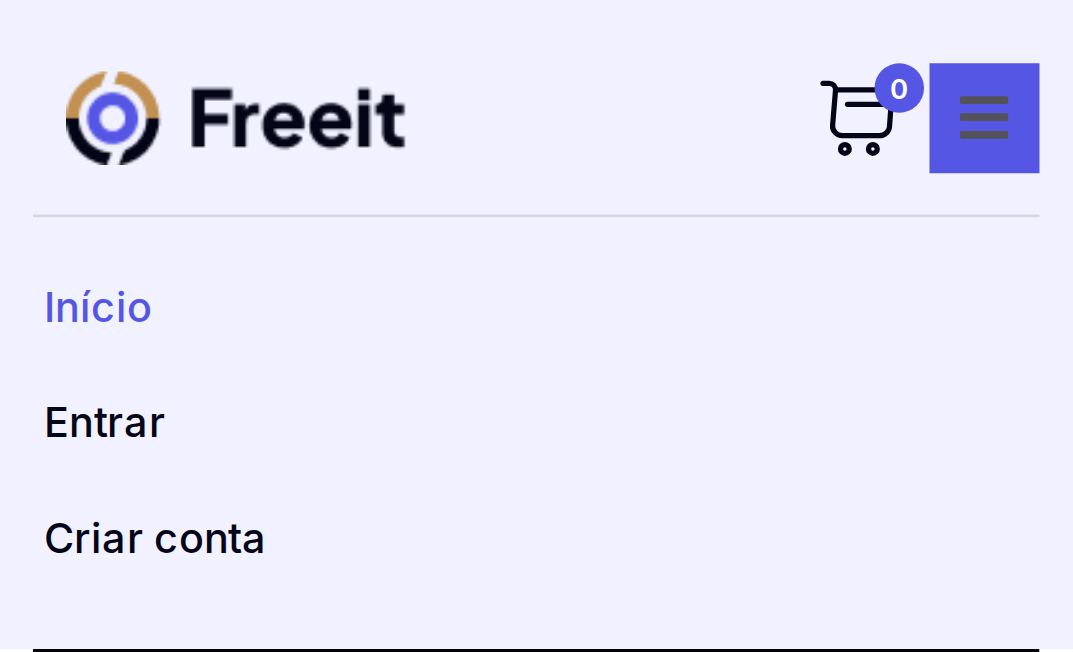
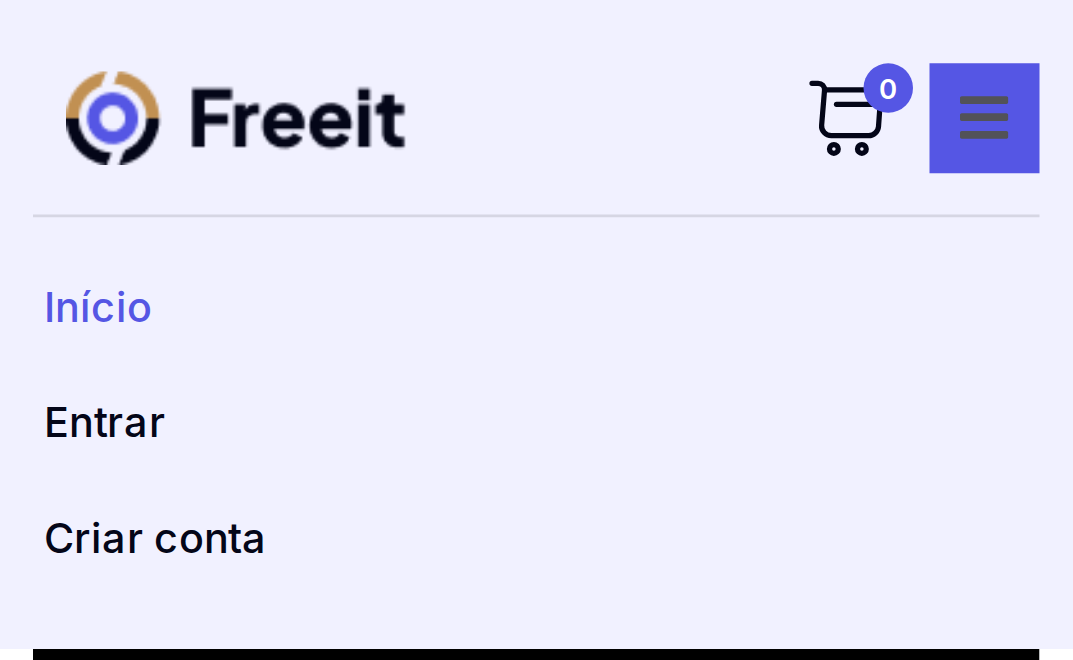
Adiciona novas imagens para o cabeçalho desktop e móvel, refatora o CSS da navbar para melhorar a responsividade e a apresentação. Atualiza a lógica de exibição no header para incluir novos estilos e comportamentos em diferentes tamanhos de tela. Implementa novos testes E2E para garantir a funcional

diff --git a/testes/e2e/navegacao.spec.ts b/testes/e2e/navegacao.spec.ts
@@ -28,6 +28,39 @@ async function expectBarraPrincipalEmUmaLinha(page: Page): Promise<void> {
   expect(caixaCarrinho!.y + caixaCarrinho!.height).toBeGreaterThan(caixaLogo!.y);
 }
 
+async function expectDistribuicaoDesktop(page: Page): Promise<void> {
+  const container = page.locator('nav.main_menu .container');
+  const logo = page.locator('.navbar-brand');
+  const inicio = page.locator('.navbar-nav .nav-link', { hasText: 'Início' });
+  const acoes = page.locator('.cabecalho-loja__acoes');
+  const carrinho = page.locator('.cabecalho-loja__carrinho');
+
+  const caixaContainer = await container.boundingBox();
+  const caixaLogo = await logo.boundingBox();
+  const caixaInicio = await inicio.boundingBox();
+  const caixaAcoes = await acoes.boundingBox();
+  const caixaCarrinho = await carrinho.boundingBox();
+
+  expect(caixaContainer).toBeTruthy();
+  expect(caixaLogo).toBeTruthy();
+  expect(caixaInicio).toBeTruthy();
+  expect(caixaAcoes).toBeTruthy();
+  expect(caixaCarrinho).toBeTruthy();
+
+  expect(caixaLogo!.x).toBeLessThan(caixaInicio!.x);
+  expect(caixaInicio!.x).toBeLessThan(caixaAcoes!.x);
+  expect(caixaLogo!.x + caixaLogo!.width).toBeLessThanOrEqual(caixaInicio!.x + 2);
+  expect(caixaInicio!.x + caixaInicio!.width).toBeLessThanOrEqual(caixaCarrinho!.x + 2);
+
+  const meioContainer = caixaContainer!.x + caixaContainer!.width / 2;
+  expect(caixaAcoes!.x).toBeGreaterThan(meioContainer);
+  expect(caixaContainer!.x + caixaContainer!.width - (caixaAcoes!.x + caixaAcoes!.width)).toBeLessThan(24);
+
+  const centro = (caixa: { y: number; height: number }) => caixa.y + caixa.height / 2;
+  expect(Math.abs(centro(caixaLogo!) - centro(caixaInicio!))).toBeLessThan(12);
+  expect(Math.abs(centro(caixaInicio!) - centro(caixaAcoes!))).toBeLessThan(12);
+}
+
 test.describe('Navegação e apresentação', () => {
   test.beforeEach(() => {
     reiniciar();
@@ -78,6 +111,17 @@ test.describe('Navegação e apresentação', () => {
     await page.setViewportSize({ width: 1280, height: 800 });
     await expect(page.getByRole('link', { name: 'Entrar' })).toBeVisible();
     await expect(page.getByRole('button', { name: 'Abrir menu' })).toBeHidden();
+    await expectDistribuicaoDesktop(page);
+
+    await page.setViewportSize({ width: 1920, height: 800 });
+    await expectDistribuicaoDesktop(page);
+    await expect(page.getByRole('button', { name: 'Abrir menu' })).toBeHidden();
+
+    await page.setViewportSize({ width: 992, height: 800 });
+    await expect(page.getByRole('button', { name: 'Abrir menu' })).toBeHidden();
+    await expectDistribuicaoDesktop(page);
+
+    await page.setViewportSize({ width: 1280, height: 800 });
     await expect(page.getByRole('link', { name: 'Loja' })).toHaveCount(0);
     await expect(page.getByRole('link', { name: 'Sobre' })).toHaveCount(0);
     await expect(page.locator('a[href="#"]')).toHaveCount(0);
@@ -91,6 +135,9 @@ test.describe('Navegação e apresentação', () => {
     await page.keyboard.type('SenhaE2e!234');
     await page.keyboard.press('Enter');
     await expect(page).toHaveURL(/admin\/produtos/);
+    await page.goto('/');
+    await expect(page.getByRole('link', { name: 'Conta' })).toBeVisible();
+    await expectDistribuicaoDesktop(page);
   });
 
   test('celular: menu da loja, admin e carrinho utilizáveis @somente-mobile', async ({ page }) => {
@@ -111,6 +158,10 @@ test.describe('Navegação e apresentação', () => {
     await expect(page.getByRole('link', { name: 'Início' })).toBeVisible();
     await expect(page.getByRole('link', { name: 'Entrar' })).toBeVisible();
     await expect(page.getByRole('link', { name: 'Criar conta' })).toBeVisible();
+    await expectBarraPrincipalEmUmaLinha(page);
+    await page.setViewportSize({ width: 320, height: 844 });
+    await expectBarraPrincipalEmUmaLinha(page);
+    await page.setViewportSize({ width: 414, height: 844 });
     await expectBarraPrincipalEmUmaLinha(page);
     await page.getByRole('button', { name: 'Abrir menu' }).click();
 

diff --git a/public/frontend/css/loja.css b/public/frontend/css/loja.css
@@ -324,8 +324,7 @@
     align-items: center;
     padding-top: 0;
     padding-bottom: 0;
-    overflow-x: clip;
-    overflow-y: visible;
+    overflow: visible;
 }
 
 .main_menu.navbar .container {
@@ -340,6 +339,7 @@
     min-width: 0;
     max-width: 125px;
     margin-right: 0;
+    order: 1;
 }
 
 .main_menu .navbar-brand img {
@@ -354,10 +354,11 @@
     display: flex;
     flex-wrap: nowrap;
     align-items: center;
-    gap: 0.25rem;
+    gap: 0.5rem;
     flex: 0 0 auto;
     margin-left: auto;
     min-height: 70px;
+    order: 2;
 }
 
 .cabecalho-loja__carrinho {
@@ -408,7 +409,9 @@
 }
 
 .main_menu .navbar-collapse {
+    order: 3;
     flex-basis: 100%;
+    flex-grow: 1;
 }
 
 @media (max-width: 991.98px) {
@@ -440,9 +443,30 @@
 }
 
 @media (min-width: 992px) {
+    .main_menu.navbar .container {
+        flex-wrap: nowrap;
+    }
+
     .main_menu .navbar-collapse {
+        order: 2;
         flex-basis: auto;
         flex-grow: 1;
+        flex-shrink: 1;
+    }
+
+    .cabecalho-loja__acoes {
+        order: 3;
+        margin-left: 0;
+    }
+
+    .main_menu .navbar-nav {
+        align-items: center;
+    }
+
+    .main_menu .navbar-nav .nav-item .nav-link {
+        margin: 0 0 0 0.5rem;
+        padding: 0.35rem 0.5rem;
+        line-height: 1.4;
     }
 }
 

diff --git a/resources/views/loja/partials/header.blade.php b/resources/views/loja/partials/header.blade.php
@@ -4,6 +4,26 @@
                 <img src="{{ asset('frontend/images/logo.png') }}" alt="Freeit" class="img-fluid">
             </a>
 
+            <div class="collapse navbar-collapse" id="navbarSupportedContent">
+                <ul class="navbar-nav">
+                    <li class="nav-item">
+                        <a class="nav-link {{ request()->routeIs('inicio') ? 'active' : '' }}" href="{{ route('inicio') }}">Início</a>
+                    </li>
+                    @auth
+                        <li class="nav-item d-lg-none">
+                            <a class="nav-link {{ request()->routeIs('dashboard') ? 'active' : '' }}" href="{{ route('dashboard') }}">Conta</a>
+                        </li>
+                    @else
+                        <li class="nav-item d-lg-none">
+                            <a class="nav-link" href="{{ route('login') }}">Entrar</a>
+                        </li>
+                        <li class="nav-item d-lg-none">
+                            <a class="nav-link" href="{{ route('register') }}">Criar conta</a>
+                        </li>
+                    @endauth
+                </ul>
+            </div>
+
             <div class="d-flex align-items-center cabecalho-loja__acoes">
                 @php
                     $itensCarrinho = (int) $quantidadeCarrinho;
@@ -28,26 +48,6 @@
                     aria-label="Abrir menu">
                     <i class="fas fa-bars" aria-hidden="true"></i>
                 </button>
-            </div>
-
-            <div class="collapse navbar-collapse" id="navbarSupportedContent">
-                <ul class="navbar-nav me-auto">
-                    <li class="nav-item">
-                        <a class="nav-link {{ request()->routeIs('inicio') ? 'active' : '' }}" href="{{ route('inicio') }}">Início</a>
-                    </li>
-                    @auth
-                        <li class="nav-item d-lg-none">
-                            <a class="nav-link {{ request()->routeIs('dashboard') ? 'active' : '' }}" href="{{ route('dashboard') }}">Conta</a>
-                        </li>
-                    @else
-                        <li class="nav-item d-lg-none">
-                            <a class="nav-link" href="{{ route('login') }}">Entrar</a>
-                        </li>
-                        <li class="nav-item d-lg-none">
-                            <a class="nav-link" href="{{ route('register') }}">Criar conta</a>
-                        </li>
-                    @endauth
-                </ul>
             </div>
         </div>
     </nav>
